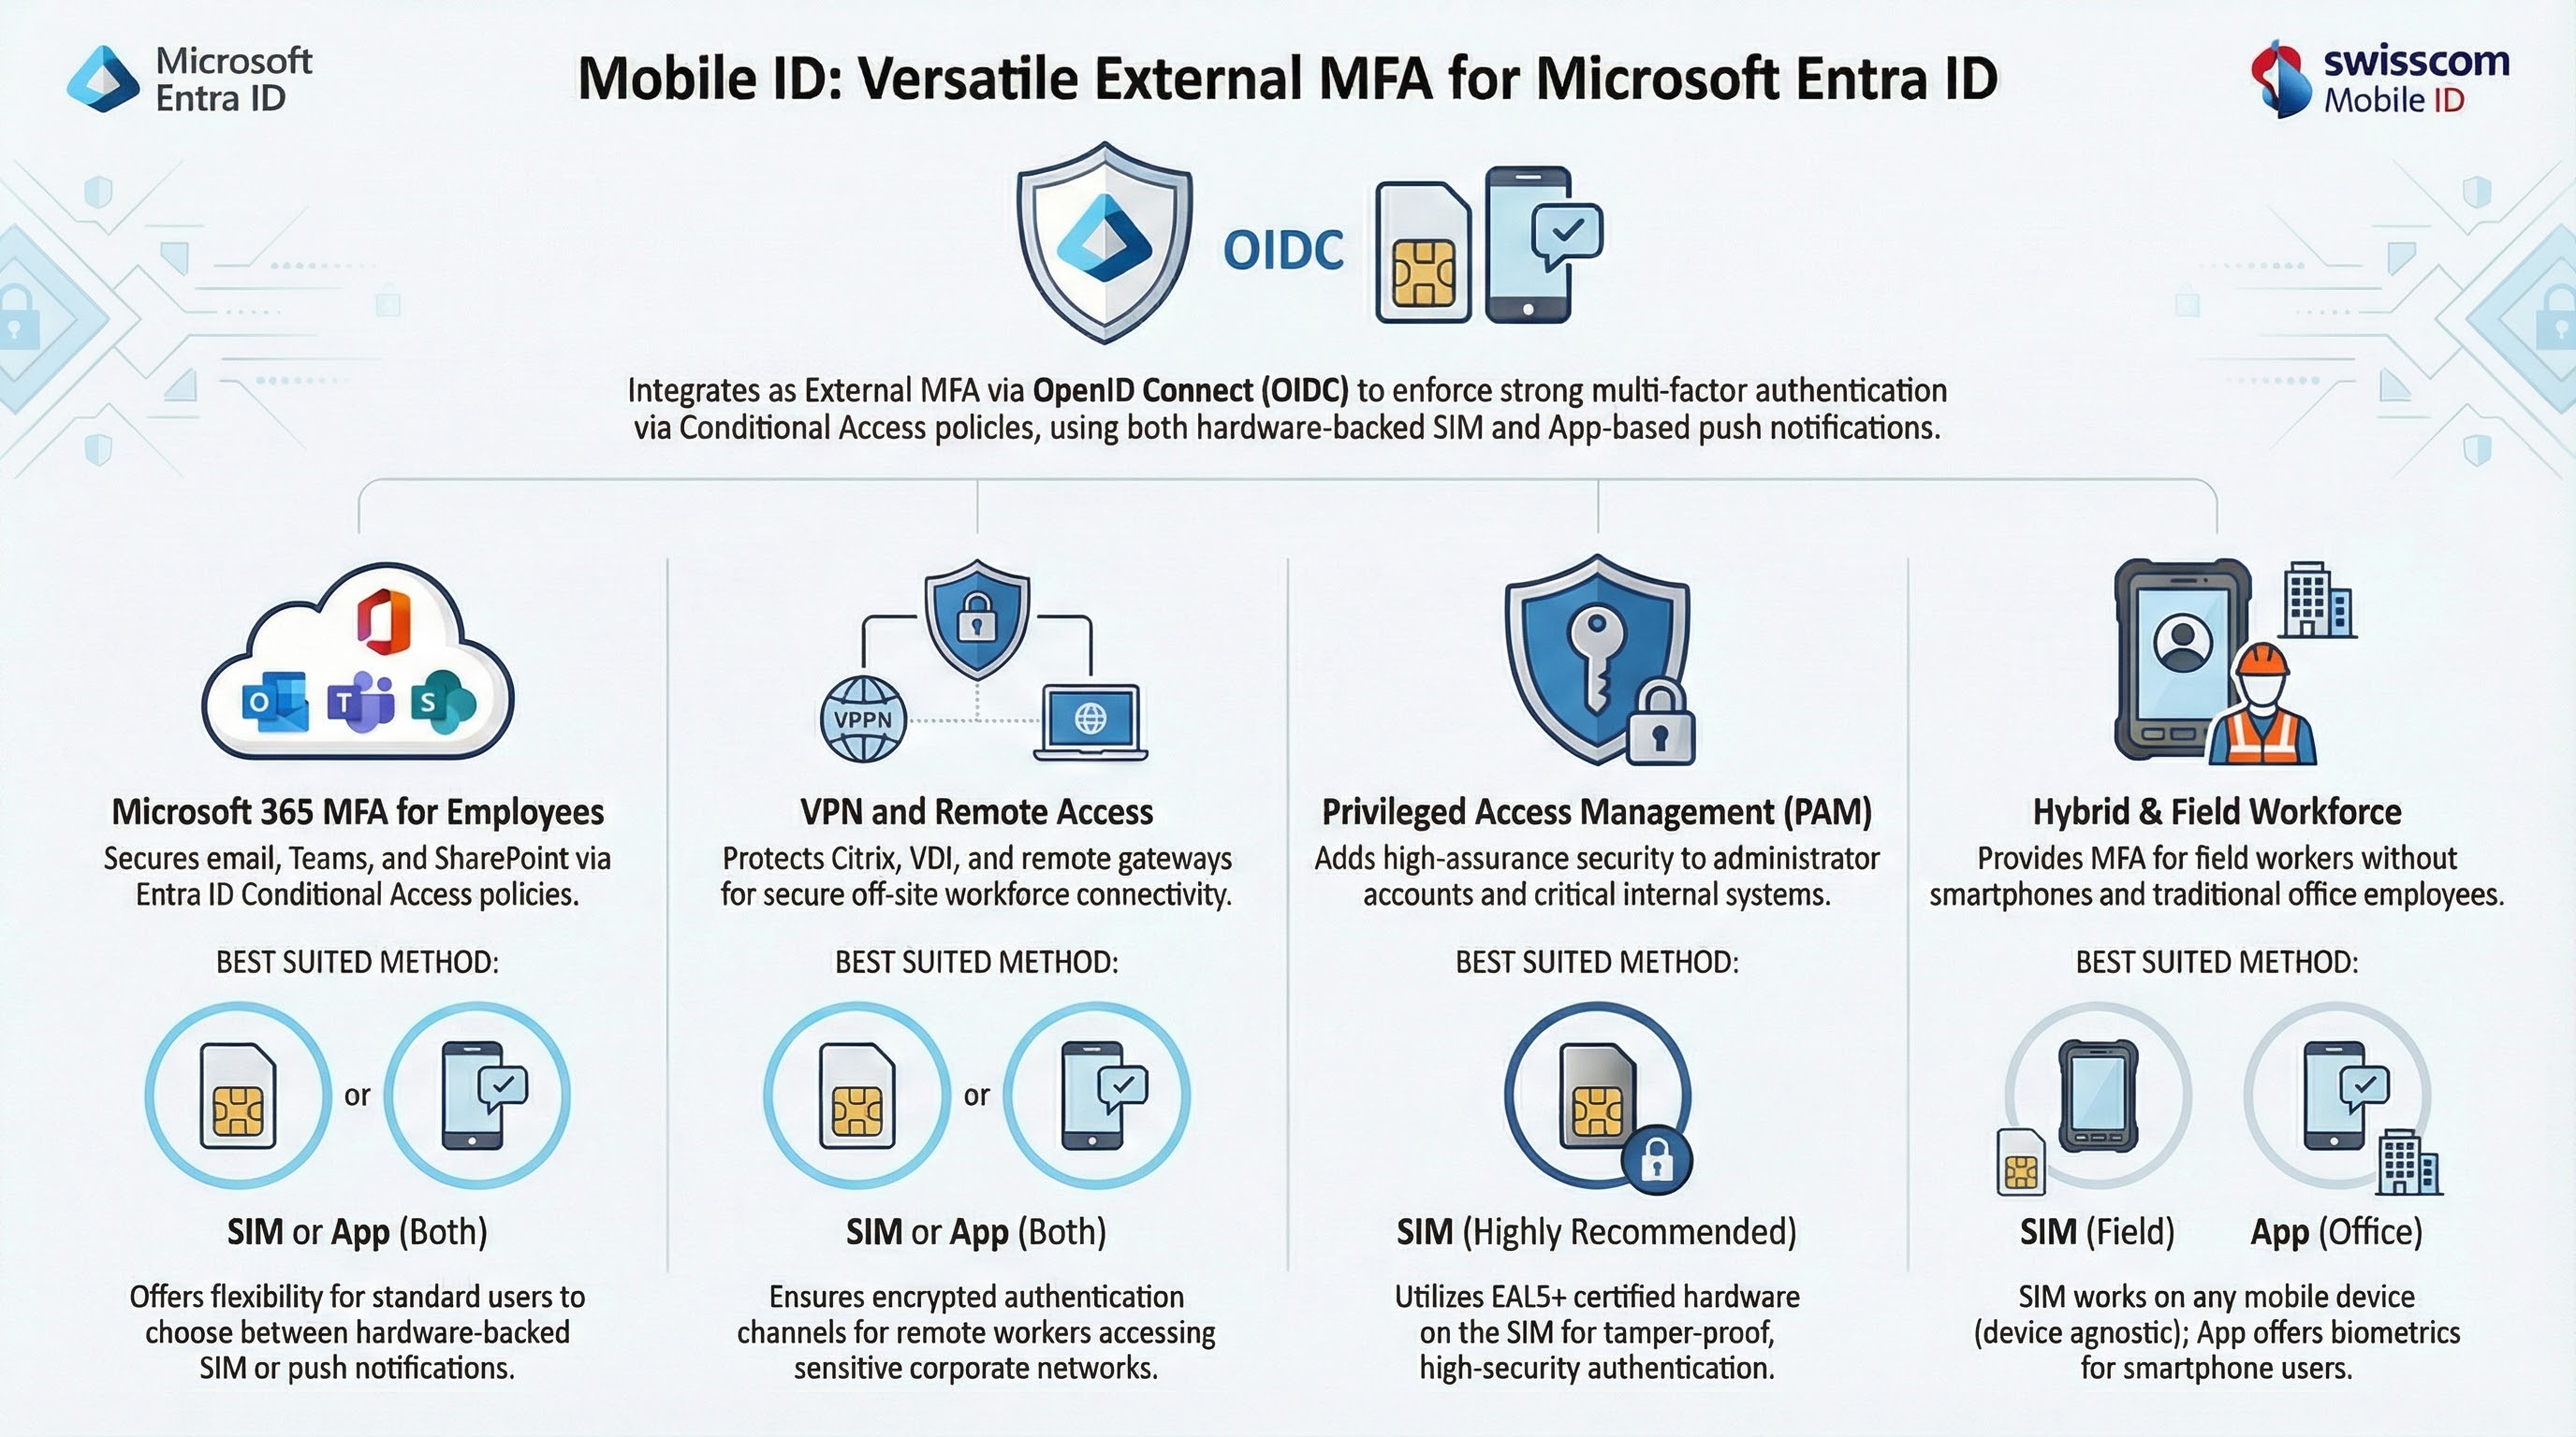
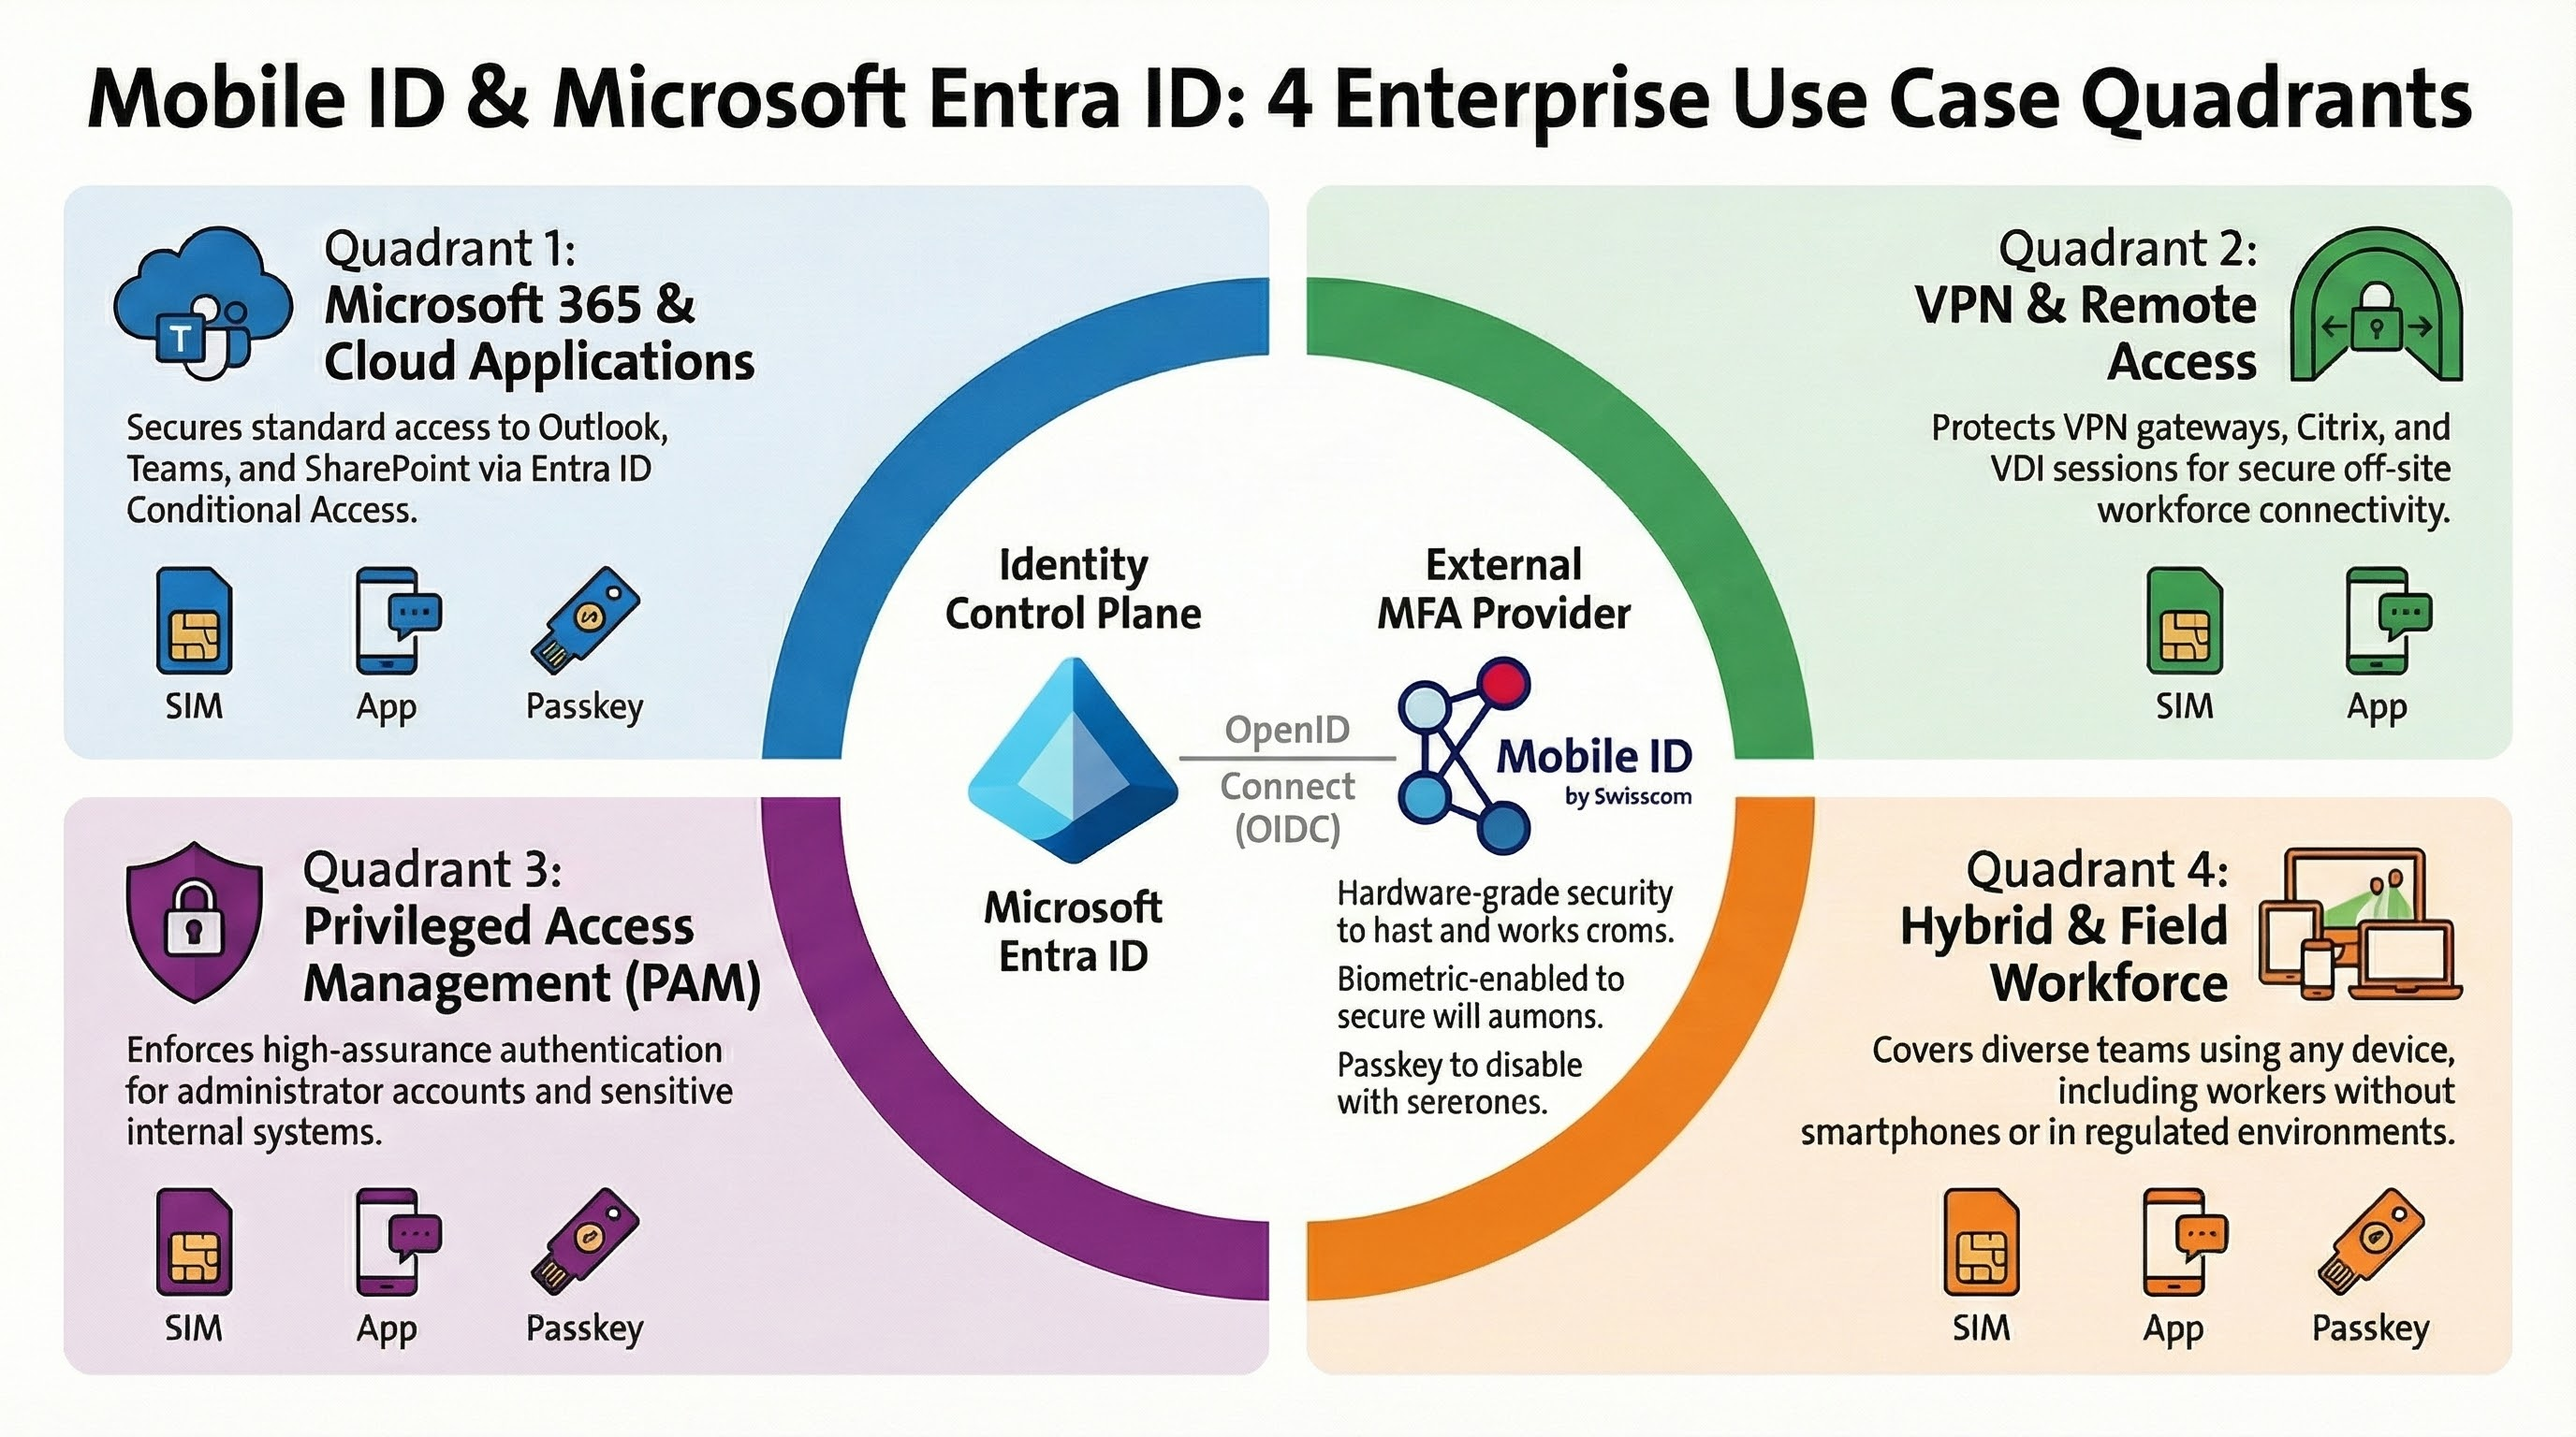
Replace use cases infographic and remove redundant integration flow graphic
The use cases infographic was regenerated to eliminate SIM-method bias
and properly represent all authentication methods per scenario. The
static integration flow infographic is replaced by the interactive
EntraIntegrationFlow Vue component.

diff --git a/docs/release-notes/posts/2026-03-27-mobile-id-entra-external-mfa.md b/docs/release-notes/posts/2026-03-27-mobile-id-entra-external-mfa.md
@@ -217,9 +217,8 @@ Setting up Mobile ID as an External MFA provider in Entra ID requires three prer
 
 The step-by-step configuration is documented in the [Cloud Integration Guide](/oidc-integration-guide/cloud-integration-guide#microsoft-entra-id), including Conditional Access policy setup, admin consent, and optional steps to prioritize Mobile ID over Microsoft Authenticator.
 
-<div class="blog-infographic">
-  <img src="/release-notes/media/infografik-entra-integration-flow.jpg" alt="Mobile ID integration architecture with Microsoft Entra ID: OIDC-based authentication flow showing policy evaluation, external MFA, and access control" />
-</div>
+<!-- Static integration flow infographic removed: the interactive EntraIntegrationFlow
+     component above already visualizes this flow with correct provider-side framing. -->
 
 ## Conclusion
 
